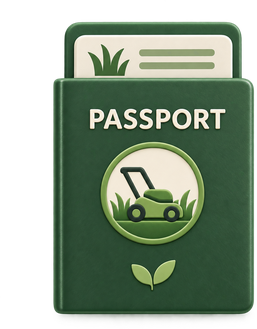
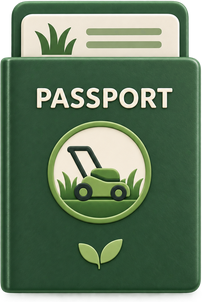
Crop the passport to the booklet, not to its halo
The trim kept 55px of all-but-invisible alpha around the art, so the
booklet was drawn inside that margin and sat small and inset with the
card's edges cutting across it. Cropping to where the art is actually
visible leaves 202x302 — the same shape as the design's own frame —
and the booklet now fills the card's height, flush to its left edge.

diff --git a/lib/features/home/widgets/passport_card.dart b/lib/features/home/widgets/passport_card.dart
@@ -20,7 +20,7 @@ class PassportCard extends StatelessWidget {
 
   /// The passport asset's own shape, trimmed to the booklet. Held here so
   /// the art can be sized off the card's height without being cropped.
-  static const _passportRatio = 257 / 329;
+  static const _passportRatio = 202 / 302;
 
   @override
   Widget build(BuildContext context) {
